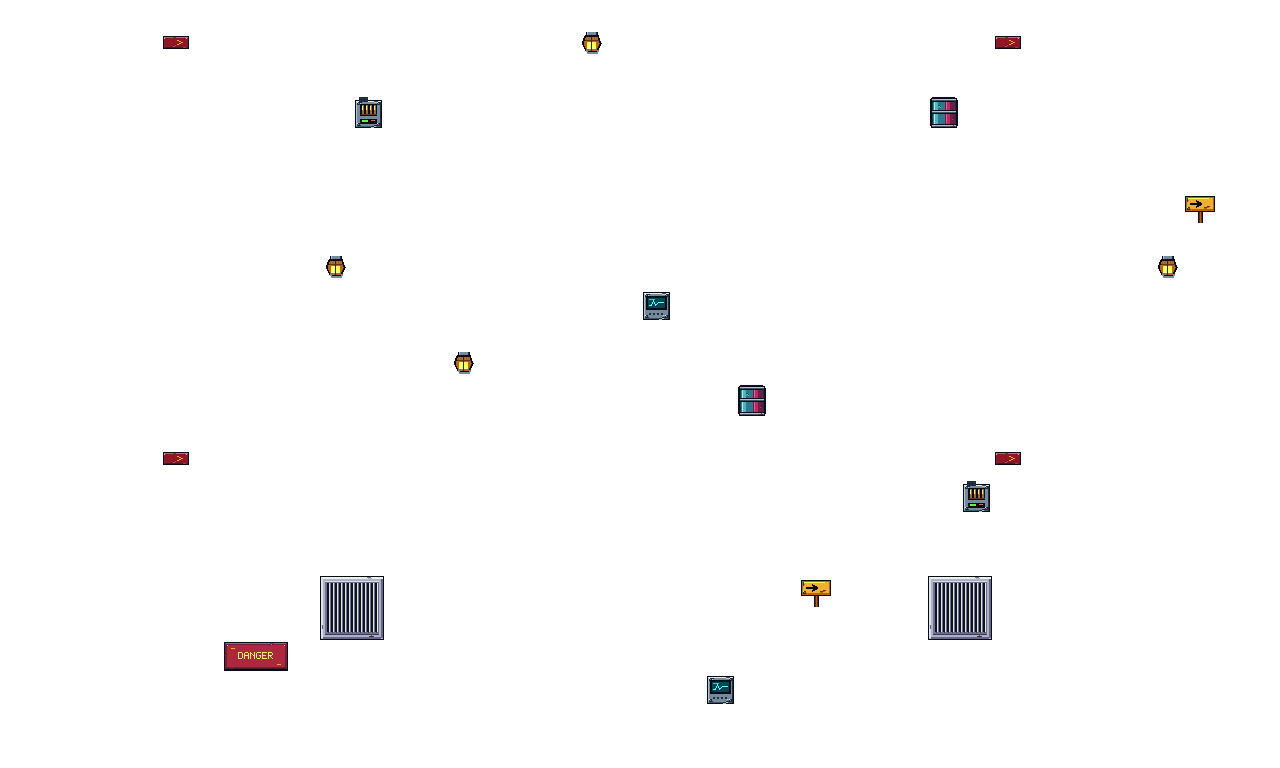
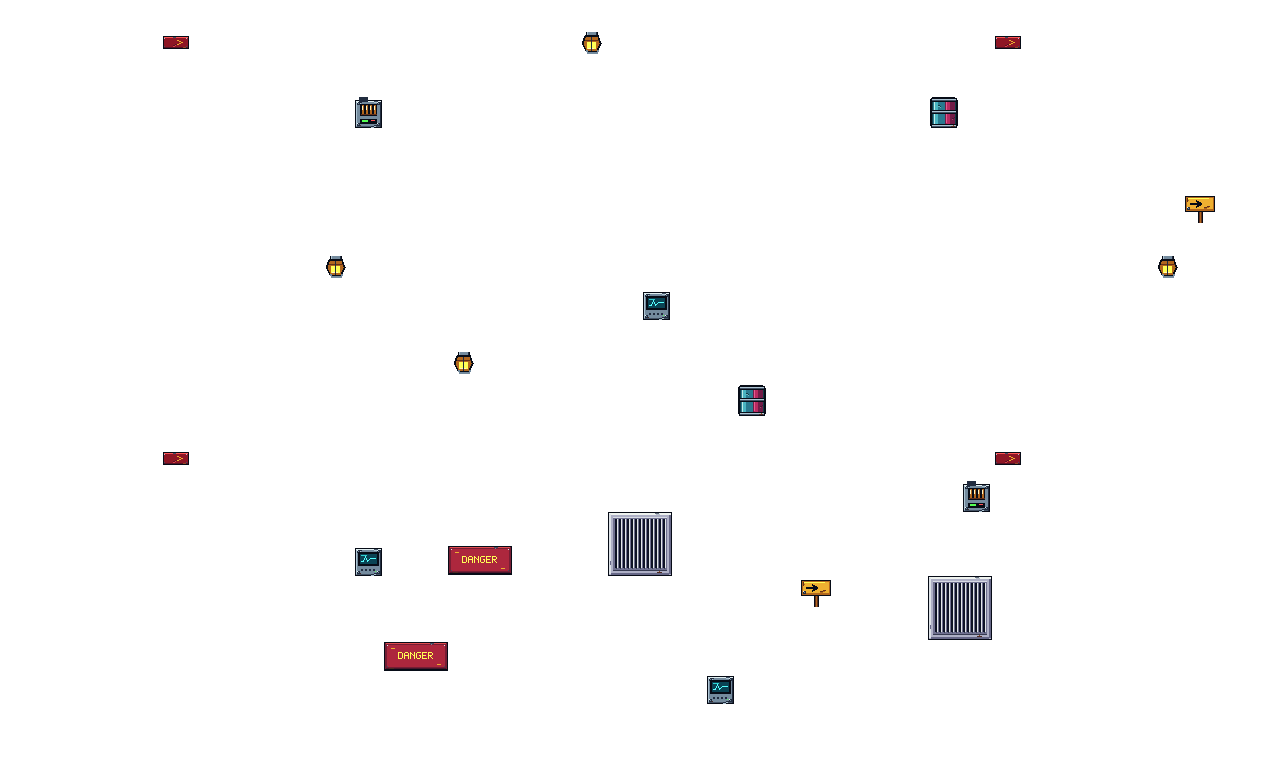
fix: make C06's second lift reachable from the entrance
The second lift stopped four tiles above the entrance floor, out of jump
range. Extend its shaft two cells, add a short dismount shelf above the
walking rock with a danger sign, and regenerate level 5 Unity assets.
Adds boarding, landing and a full normal-spawn win route as regressions.

diff --git a/tests/test_classic_elevator_exchange_route.py b/tests/test_classic_elevator_exchange_route.py
@@ -1,0 +1,198 @@
+"""C06's entrance must reach a real lift with ordinary human buttons."""
+
+import pytest
+
+from src.unity_bridge.human_controls import HumanControls
+from src.unity_bridge.session import CaveSession
+from src.unity_bridge.visual_scenery import placement_cells
+from src.unity_bridge.visuals import dressing_placements
+
+
+def board_second_lift(delay=0):
+    game = CaveSession(level=5).game
+    assert game.health == 3 and game.ammo == 5 and len(game.enemies) == 6
+    assert len(game.elevators) == 3 and game.initial_crystals == 30
+    for _ in range(55):
+        game.step_human(HumanControls(1, False, False, False))
+    for _ in range(delay):
+        game.step_human(HumanControls(0, False, False, False))
+    # Wait beside the pad, jump above its edge, then move onto it. Jumping
+    # directly under a solid platform correctly bumps its underside.
+    for _ in range(750):
+        if game._elevator_solid[1].top >= 19 * 32 and game.elevators[1].direction > 0:
+            break
+        game.step_human(HumanControls(0, False, False, False))
+    else:
+        pytest.fail("second lift never reaches the entrance boarding height")
+    for _ in range(22):
+        game.step_human(HumanControls(0, True, False, False))
+    for _ in range(14):
+        game.step_human(HumanControls(1, False, False, False))
+    for _ in range(120):
+        game.step_human(HumanControls(0, False, False, False))
+        if game._player_rect().bottom == game._elevator_solid[1].top:
+            break
+    else:
+        pytest.fail("entrance jump cannot reach the second lift")
+    return game
+
+
+@pytest.mark.parametrize("delay", [0, 60, 120, 180])
+def test_elevator_exchange_second_lift_can_be_boarded_from_normal_spawn(delay):
+    game = board_second_lift(delay)
+    for _ in range(150):
+        game.step_human(HumanControls(0, False, False, False))
+        assert game._player_rect().bottom == game._elevator_solid[1].top
+        assert not game._is_on_ladder()
+        assert not game._rect_collides_solid(game._player_rect())
+    assert game.player_y < 18 * 32 and game.health == 3
+
+
+def test_elevator_exchange_lower_dismount_has_a_landing_above_the_live_rock():
+    game = board_second_lift()
+    for _ in range(200):
+        if game._elevator_solid[1].top <= 16 * 32:
+            break
+        game.step_human(HumanControls(0, False, False, False))
+    game.step_human(HumanControls(1, True, False, False))
+    for _ in range(42):
+        game.step_human(HumanControls(1, False, False, False))
+    assert game._player_rect().bottom == 18 * 32
+    # Four seconds to read the rock's patrol. The mobile eye remains a threat;
+    # this ledge is not intended to make an indefinite wait invulnerable.
+    for _ in range(240):
+        game.step_human(HumanControls(0, False, False, False))
+        assert game.health == 3 and not game.game_over
+    assert game._player_rect().bottom == 18 * 32
+    rock = next(enemy for enemy in game.enemies if enemy.appearance == "walking_rock")
+    assert rock.alive and rock.health == 1
+    assert (13, 18) in game.crystals and game.ammo == 10
+
+
+def test_elevator_exchange_warns_before_the_rock_dismount_without_hiding_objects():
+    game = CaveSession(level=5).game
+    placements = dressing_placements(game.level.layout, 5)
+    warning = {"sprite": "danger_sign", "col": 14, "row": 17}
+    assert warning in placements
+    footprint = set(placement_cells(warning))
+    assert all(game.level.layout[row][col] == "." for col, row in footprint)
+    assert all(
+        not footprint.intersection(placement_cells(item)) for item in placements if item != warning
+    )
+
+
+# (frames, horizontal direction, buttons): jump=1, fire=2, use/descend=4.
+# Fixed normal-spawn recording; no dependency on ignored audit inputs.
+ELEVATOR_EXCHANGE_ROUTE = (
+    (54, 1, 0),
+    (201, 0, 0),
+    (22, 0, 1),
+    (14, 1, 0),
+    (105, 0, 0),
+    (1, 1, 1),
+    (42, 1, 0),
+    (4, 0, 0),
+    (39, 1, 0),
+    (4, 0, 0),
+    (1, 1, 1),
+    (61, 1, 0),
+    (1, -1, 1),
+    (60, -1, 0),
+    (1, 0, 0),
+    (1, -1, 1),
+    (26, -1, 0),
+    (127, 0, 0),
+    (1, -1, 1),
+    (54, -1, 0),
+    (143, 0, 0),
+    (27, -1, 0),
+    (20, 0, 0),
+    (41, -1, 0),
+    (53, 1, 0),
+    (32, 0, 0),
+    (1, 1, 1),
+    (178, 1, 0),
+    (1, 0, 4),
+    (150, 1, 0),
+    (259, -1, 0),
+    (1, -1, 1),
+    (68, -1, 0),
+    (160, 0, 0),
+    (22, 0, 1),
+    (14, 1, 0),
+    (189, 0, 0),
+    (26, 1, 0),
+    (1, -1, 1),
+    (11, -1, 0),
+    (16, 0, 0),
+    (1, -1, 2),
+    (30, 0, 0),
+    (1, -1, 1),
+    (108, -1, 0),
+    (54, 1, 0),
+    (4, 0, 0),
+    (22, 0, 1),
+    (14, -1, 0),
+    (161, 0, 0),
+    (14, 1, 0),
+    (11, 0, 0),
+    (1, 1, 2),
+    (201, 0, 0),
+    (1, -1, 2),
+    (56, 0, 2),
+    (20, 0, 0),
+    (123, 1, 0),
+    (122, -1, 0),
+    (130, 0, 0),
+    (14, -1, 0),
+    (294, 0, 0),
+    (13, -1, 0),
+    (30, 0, 0),
+    (28, -1, 0),
+    (1, 1, 1),
+    (53, 1, 0),
+    (19, 0, 0),
+    (13, -1, 0),
+    (145, 0, 0),
+    (13, -1, 0),
+    (38, 0, 0),
+    (53, 1, 0),
+    (1, 0, 1),
+    (62, 0, 0),
+    (1, 1, 1),
+    (13, 1, 0),
+    (429, 0, 0),
+    (1, 1, 1),
+    (26, 1, 0),
+    (1, 0, 0),
+    (110, 1, 0),
+    (41, 0, 1),
+    (12, -1, 0),
+    (12, 1, 0),
+    (22, 0, 1),
+    (122, -1, 0),
+    (32, 0, 0),
+    (67, 1, 0),
+    (1, 1, 1),
+    (54, 1, 0),
+    (58, 0, 1),
+    (192, 1, 0),
+    (18, 0, 0),
+    (14, 1, 0),
+    (1, 1, 1),
+    (13, 1, 0),
+    (109, 0, 0),
+    (13, -1, 0),
+    (11, 0, 0),
+    (1, 1, 1),
+    (19, 1, 0),
+    (41, 0, 0),
+    (1, -1, 1),
+    (39, -1, 0),
+    (22, 0, 0),
+    (110, -1, 0),
+    (1, -1, 1),
+    (92, -1, 0),
+    (95, 0, 1),
+    (18, 1, 0),
+)

diff --git a/src/unity_bridge/classic_polish.py b/src/unity_bridge/classic_polish.py
@@ -11,7 +11,11 @@ CONTENT_EDITS: dict[int, tuple[tuple[int, int, str], ...]] = {
     # Two jumps offer a rewarded alternative to the long upper chain ascent.
     1: ((6, 21, "A"), (21, 5, "#"), (22, 5, "#"), (21, 4, "$")),
     2: ((18, 17, "p"),),  # Upgrade before the red-gate/rock pocket.
-    5: ((6, 21, "A"),),  # Avoid a long unarmed trip to the upper ammo shelf.
+    # Bring the second pad within a real entrance jump; its former row-18 stop
+    # was four tiles above the floor. Keep the floor crystal at (8,21) intact.
+    # The short dismount shelf sits above the rock's floor, offering a place to
+    # watch its patrol before dropping. The neighboring crystal stays intact.
+    5: ((6, 21, "A"), (8, 19, "="), (8, 20, "="), (11, 18, "#"), (12, 18, "#")),
     6: ((7, 21, "p"),),  # Rare upgrade before the smelter's main floor patrol.
     7: ((8, 8, "z"),),  # Choose freeze by climbing before the flyer crossing.
     # Dinosaur patrol floor, covered bat-room rest and central-chain return.

diff --git a/src/unity_bridge/visuals.py b/src/unity_bridge/visuals.py
@@ -828,6 +828,9 @@ def dressing_placements(layout: Sequence[str], level: int) -> list[DressingPlace
         # Keep the opening trench warning above the takeoff approach. Scenery
         # otherwise occupies its clear bay before automatic warning placement.
         priority_signs.append({"sprite": "danger_sign", "col": 10, "row": 20})
+    if level == 5 and len(layout) > 18 and layout[18][11:13] == "##":
+        # Flag the drop from the lift-exchange dismount shelf to the rock floor.
+        priority_signs.append({"sprite": "danger_sign", "col": 14, "row": 17})
     if level == 8 and len(layout) > 12 and layout[6][1:4] == "##H" and layout[12][4] == "#":
         # Warn about the top-vault dinosaur before decorating its small room.
         priority_signs.append({"sprite": "danger_sign", "col": 3, "row": 1})

diff --git a/tests/test_classic_authoring_validation.py b/tests/test_classic_authoring_validation.py
@@ -32,6 +32,10 @@ def unpolished_campaign(monkeypatch):
         (0, (8, 19), ".", "not double stone"),
         (0, (8, 22), ".", "lacks solid support"),
         (6, (18, 5), "$", "relocation.*invalid"),
+        (5, (8, 19), "*", "occupied"),
+        (5, (8, 20), "$", "occupied"),
+        (5, (11, 18), "*", "occupied"),
+        (5, (12, 18), "M", "occupied"),
     ],
 )
 def test_unsafe_polish_edits_preserve_the_input_campaign(
